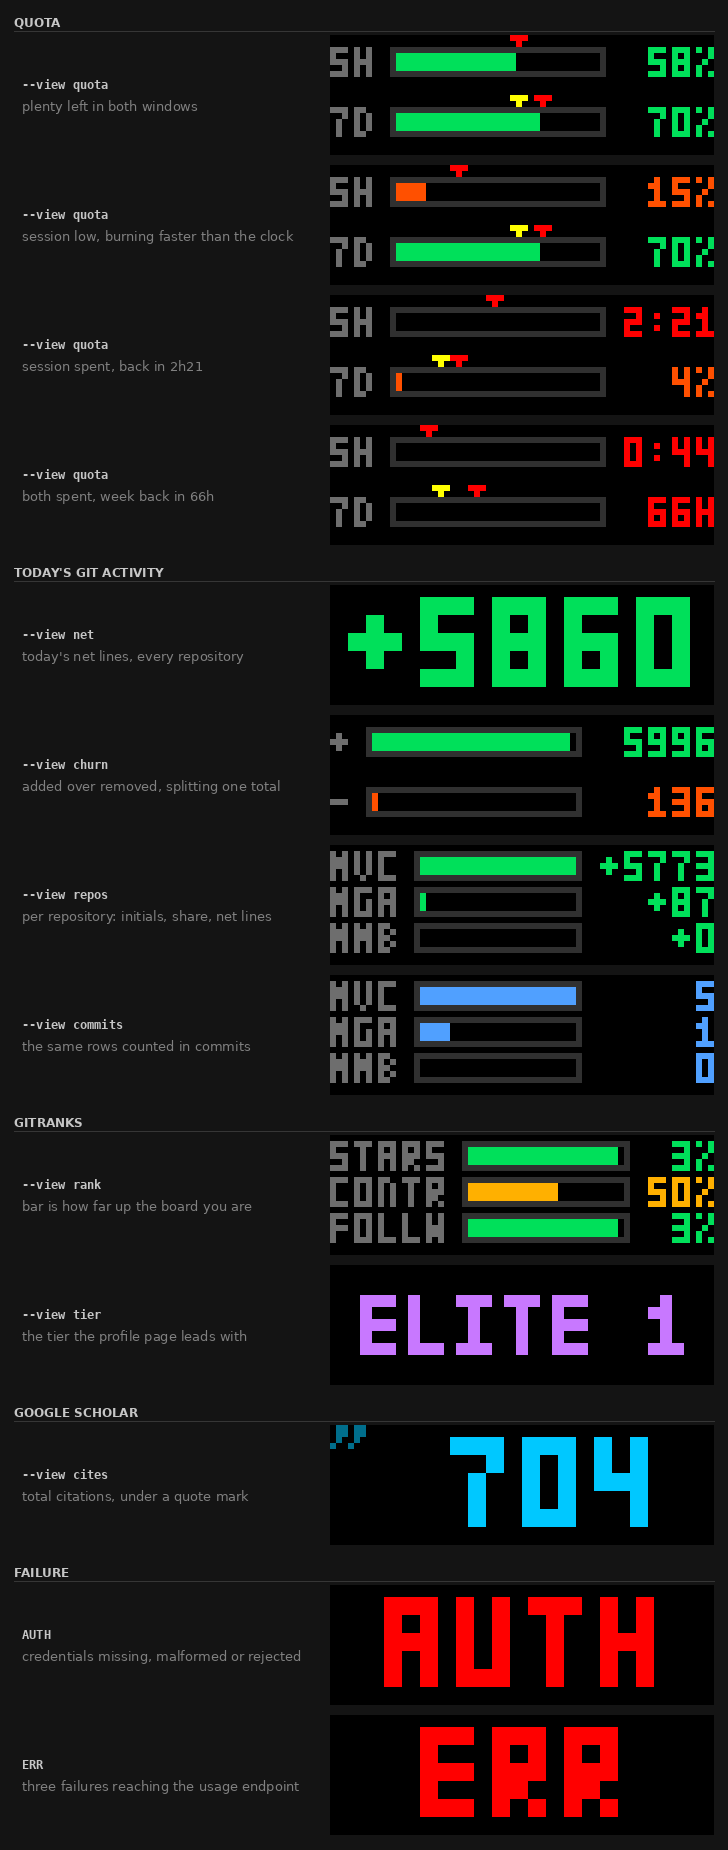
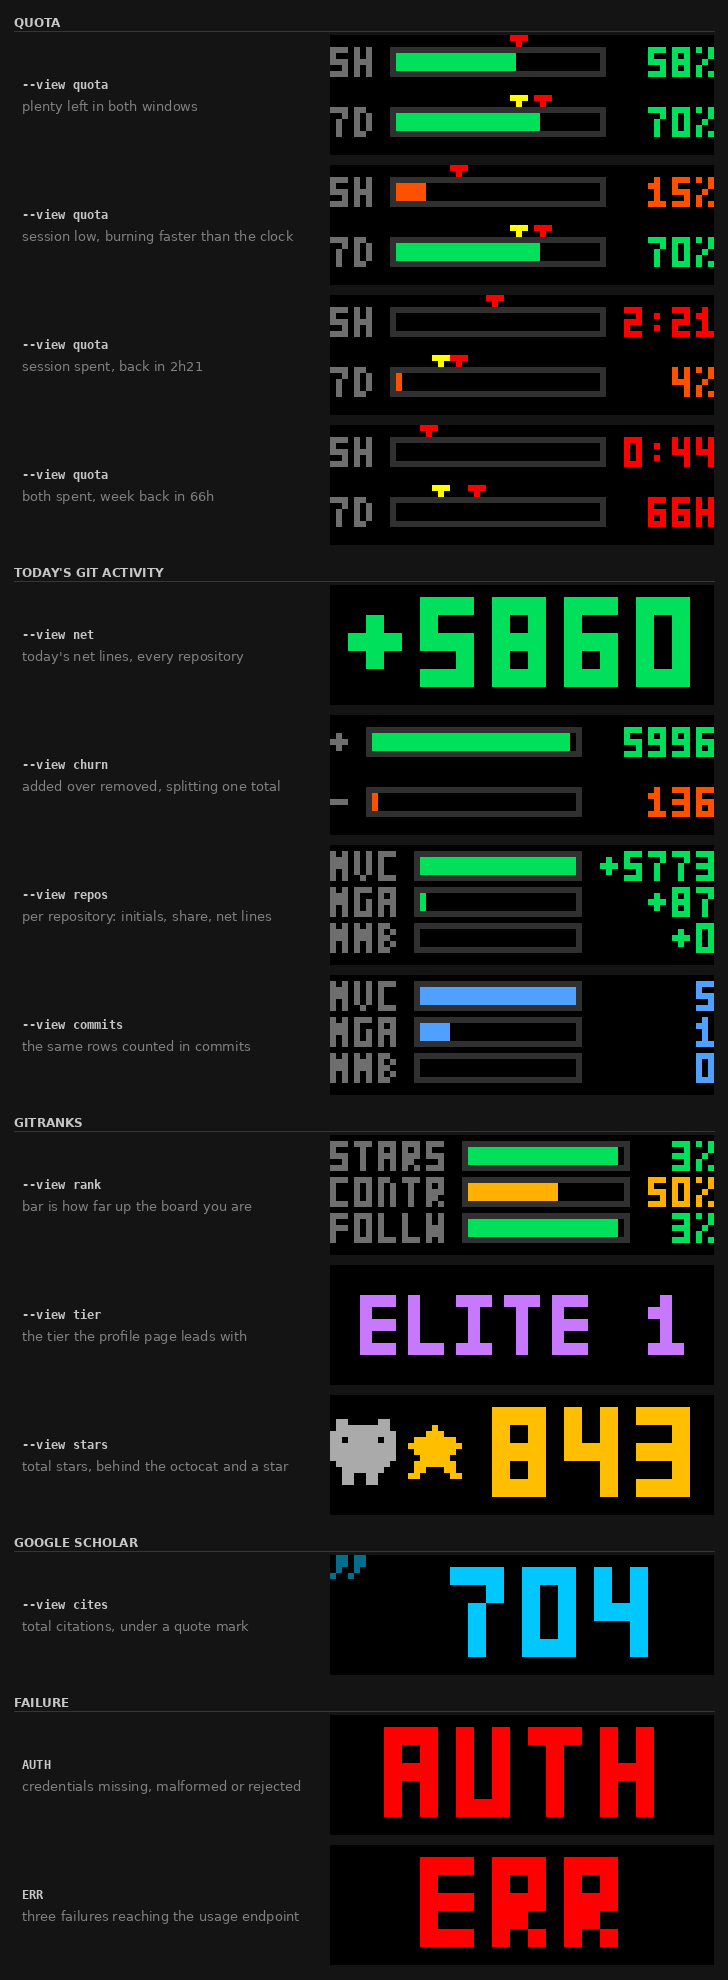
also plot git stars..

diff --git a/display.py b/display.py
@@ -352,6 +352,47 @@ def render_message(
     return image
 
 
+def _render_figure(text: str, marks, color, width: int, height: int) -> Image.Image:
+    """One big number with small marks down its left saying what it counts.
+
+    The marks are sized off the panel alone, never off the number, so working
+    out how much room the number has left is not circular. Each is a
+    `(bitmap, colour, at_top)` triple; `at_top` hangs it from the top edge
+    rather than centring it on the number.
+    """
+    image = Image.new("RGB", (width, height), (0, 0, 0))
+    columns = sum(len(rows[0]) + 2 for rows, _, _ in marks)  # each mark and its gap
+    mark = max(1, min(height // 16, width // 32))
+    # Never let the marks eat more than half the panel: on a square one they
+    # would otherwise leave the number smaller than the marks beside it.
+    while mark > 1 and columns * mark > width // 2:
+        mark -= 1
+    inset = columns * mark
+    if inset + text_width(text, 1) > width:
+        inset, mark = 0, 0  # too narrow to spare the columns; the number wins
+
+    x = 0
+    for rows, mark_color, at_top in marks if mark else ():
+        _blit(image, rows, x, 0 if at_top else (height - len(rows) * mark) // 2, mark_color, mark)
+        x += (len(rows[0]) + 2) * mark
+
+    scale = 1
+    while (
+        text_width(text, scale + 1) <= width - inset
+        and GLYPH_H * (scale + 1) <= height - 2
+    ):
+        scale += 1
+    draw_text(
+        image,
+        text,
+        inset + (width - inset - text_width(text, scale)) // 2,
+        (height - GLYPH_H * scale) // 2,
+        color,
+        scale,
+    )
+    return image
+
+
 # --- today's git activity ------------------------------------------------
 #
 # Four ways of looking at the same scan, so there is something to choose
@@ -452,15 +493,46 @@ def git_has_content(view: str, stats: DayStats) -> bool:
 
 # --- gitranks standing ---------------------------------------------------
 #
-# Two ways of looking at the daily scrape: `rank` for where the three rankings
-# stand against everyone else, `tier` for the one word the profile page leads
-# with. Both reuse the row shape above.
+# Three ways of looking at the daily scrape: `rank` for where the three
+# rankings stand against everyone else, `tier` for the one word the profile
+# page leads with, `stars` for the figure the rankings are built on. The first
+# reuses the row shape above, the other two fill the panel.
 
-GITRANKS_VIEWS = ("rank", "tier")
+GITRANKS_VIEWS = ("rank", "tier", "stars")
 RANK_LABEL_CHARS = 5  # "STARS", "CONTR", "FOLLW"
 PERCENT_CHARS = 3  # "50%"
 
 COLOR_TIER = (200, 120, 255)
+COLOR_STAR = (255, 190, 0)
+COLOR_OCTOCAT = (170, 170, 170)
+
+# The two marks the star count sits behind: the octocat says where the figure
+# comes from, the star says what is being counted. Drawn side by side, small,
+# down the left of the number.
+OCTOCAT = (
+    "01100000110",
+    "01111111110",
+    "11111111111",
+    "11011111011",
+    "11111111111",
+    "11111111111",
+    "11111111111",
+    "01111111110",
+    "00111111100",
+    "00110011000",
+    "00110011000",
+)
+STAR = (
+    "000010000",
+    "000111000",
+    "011111110",
+    "111111111",
+    "011111110",
+    "001111100",
+    "011111110",
+    "011000110",
+    "110000011",
+)
 
 
 def _rank_color(top_percent: int):
@@ -507,9 +579,25 @@ def render_tier(profile: Profile, width: int, height: int) -> Image.Image:
     return render_message(tier, width, height, COLOR_TIER)
 
 
+def render_stars(profile: Profile, width: int, height: int) -> Image.Image:
+    """Total GitHub stars, as large as the space beside the marks allows."""
+    stars = profile.rank("s")
+    if stars is None or not stars.score:
+        return render_message("NONE", width, height, COLOR_LABEL)
+    return _render_figure(
+        _format_count(stars.score),
+        ((OCTOCAT, COLOR_OCTOCAT, False), (STAR, COLOR_STAR, False)),
+        COLOR_STAR,
+        width,
+        height,
+    )
+
+
 def render_gitranks(view: str, profile: Profile, width: int, height: int) -> Image.Image:
     if view == "tier":
         return render_tier(profile, width, height)
+    if view == "stars":
+        return render_stars(profile, width, height)
     return render_rank(profile, width, height)
 
 
@@ -517,6 +605,9 @@ def gitranks_has_content(view: str, profile: Profile) -> bool:
     """Whether the scrape found a standing worth a slot."""
     if view == "tier":
         return bool(profile.global_tier)
+    if view == "stars":
+        stars = profile.rank("s")
+        return stars is not None and stars.score > 0
     return any(rank.position for rank in profile.ranks.values())
 
 
@@ -547,34 +638,13 @@ QUOTE = (
 
 def render_cites(citations: Citations, width: int, height: int) -> Image.Image:
     """Total citations, as large as the space beside the quote mark allows."""
-    image = Image.new("RGB", (width, height), (0, 0, 0))
-    text = _format_count(citations.citations)
-
-    # The mark is sized off the panel alone, never off the number, so that
-    # working out how much room the number has left is not circular.
-    mark = max(1, min(height // 16, width // 32))
-    inset = (len(QUOTE[0]) + 2) * mark
-    if inset + text_width(text, 1) > width:
-        inset, mark = 0, 0  # too narrow to spare a column; the number wins
-
-    scale = 1
-    while (
-        text_width(text, scale + 1) <= width - inset
-        and GLYPH_H * (scale + 1) <= height - 2
-    ):
-        scale += 1
-
-    if mark:
-        _blit(image, QUOTE, 0, 0, COLOR_CITE_MARK, mark)
-    draw_text(
-        image,
-        text,
-        inset + (width - inset - text_width(text, scale)) // 2,
-        (height - GLYPH_H * scale) // 2,
+    return _render_figure(
+        _format_count(citations.citations),
+        ((QUOTE, COLOR_CITE_MARK, True),),
         COLOR_CITE,
-        scale,
+        width,
+        height,
     )
-    return image
 
 
 def render_hindex(citations: Citations, width: int, height: int) -> Image.Image:

diff --git a/doc/make_states.py b/doc/make_states.py
@@ -125,6 +125,8 @@ ROWS = [
      display.render_gitranks("rank", RANKED, W, H)),
     ("--view tier", "the tier the profile page leads with",
      display.render_gitranks("tier", RANKED, W, H)),
+    ("--view stars", "total stars, behind the octocat and a star",
+     display.render_gitranks("stars", RANKED, W, H)),
 
     ("GOOGLE SCHOLAR", None, None),
     ("--view cites", "total citations, under a quote mark",

diff --git a/README.md b/README.md
@@ -71,7 +71,7 @@ On Ctrl+C or `systemctl stop`, the panel is switched off in software before the 
 
 ## The views
 
-Eight views, from three sources. Most are `label · bar · number` rows; `net`, `tier` and `cites` give one figure the whole panel. Pick one with `--view`, or rotate through several:
+Nine views, from three sources. Most are `label · bar · number` rows; `net`, `tier`, `stars` and `cites` give one figure the whole panel. Pick one with `--view`, or rotate through several:
 
 | `--view` | Source | Shows |
 | --- | --- | --- |
@@ -82,6 +82,7 @@ Eight views, from three sources. Most are `label · bar · number` rows; `net`, 
 | `commits` | [git](#todays-git-activity) | The same rows, counted in commits |
 | `rank` | [gitranks](#your-gitranks-standing) | Stars, contributions and followers — each bar how far up the board you are |
 | `tier` | [gitranks](#your-gitranks-standing) | The tier gitranks leads your profile with |
+| `stars` | [gitranks](#your-gitranks-standing) | Your total GitHub stars, behind an octocat and a star |
 | `cites` | [Scholar](#google-scholar-citations) | Your total citation count |
 | `all` | | Rotate through every view above |
 
@@ -170,12 +171,13 @@ In practice a full hour of rotating through every view across three repositories
 
 ## Your gitranks standing
 
-[gitranks.com](https://gitranks.com/) ranks GitHub profiles by stars, by stars on repositories you have merged PRs into, and by followers. Two views put that on the panel:
+[gitranks.com](https://gitranks.com/) ranks GitHub profiles by stars, by stars on repositories you have merged PRs into, and by followers. Three views put that on the panel:
 
 | `--view` | Shows |
 | --- | --- |
 | `rank` | Three rows — `STARS`, `CONTR`, `FOLLW`. The value is the "top N%" the site gives you; the bar is the share of ranked profiles you are above, so a full bar is the top of the board rather than the bottom. The panel font has no lower case, hence the capitals |
 | `tier` | The tier the profile page leads with — `ELITE 1`, `MASTER 5` — as large as the panel will take it |
+| `stars` | The total stars the star ranking is built on, as large as the space beside the marks allows. An octocat says where the figure comes from and a star says what is counted, since a bare number on a panel could be anything. On a panel too narrow for both marks the number takes the whole width |
 
 Bars are green in the top 10%, amber to the halfway mark, orange below it. Everything the page states is parsed, not just what fits on the panel — position, how many are ranked, the percentile, the month's movement, the score, the tier and how far the next one is — and the whole lot goes to the status line and the journal:
 
@@ -217,7 +219,7 @@ Three locations are consulted, first hit wins — the same order as the reposito
 | 2 | `~/.config/claude-ipixel/github-user.txt` | **The normal place** |
 | 3 | `github-user.txt` beside the code | Fallback for running out of a clone. `.gitignore`d |
 
-**With no such file the feature is simply off**: no browser is started, no request is made, and the `rank` and `tier` views draw nothing while the log tells you what is missing. `github-user.txt.example` has the same note in it.
+**With no such file the feature is simply off**: no browser is started, no request is made, and the `rank`, `tier` and `stars` views draw nothing while the log tells you what is missing. `github-user.txt.example` has the same note in it.
 
 ## Google Scholar citations
 
@@ -449,7 +451,7 @@ ALL    6c  +5996   -136     net +5860
 - Every commit on `HEAD` since midnight is counted, whoever wrote it. In a repository you share, a colleague's merge-free commits land in your totals.
 - Lines are a famously poor proxy for work. A generated file or a vendored dependency will dwarf a day of real thinking.
 - The gitranks and Scholar figures are scraped from pages meant for human eyes. A redesign at either end breaks the parse — the views go empty and the log says why, but nothing else stops.
-- gitranks needs a real browser on the machine. Without Firefox and `geckodriver` those two views never fill in.
+- gitranks needs a real browser on the machine. Without Firefox and `geckodriver` those three views never fill in.
 - Bluetooth LE only. Panels with WiFi firmware are not addressed over the network.
 - Not affiliated with, endorsed by, or supported by Anthropic.
 
